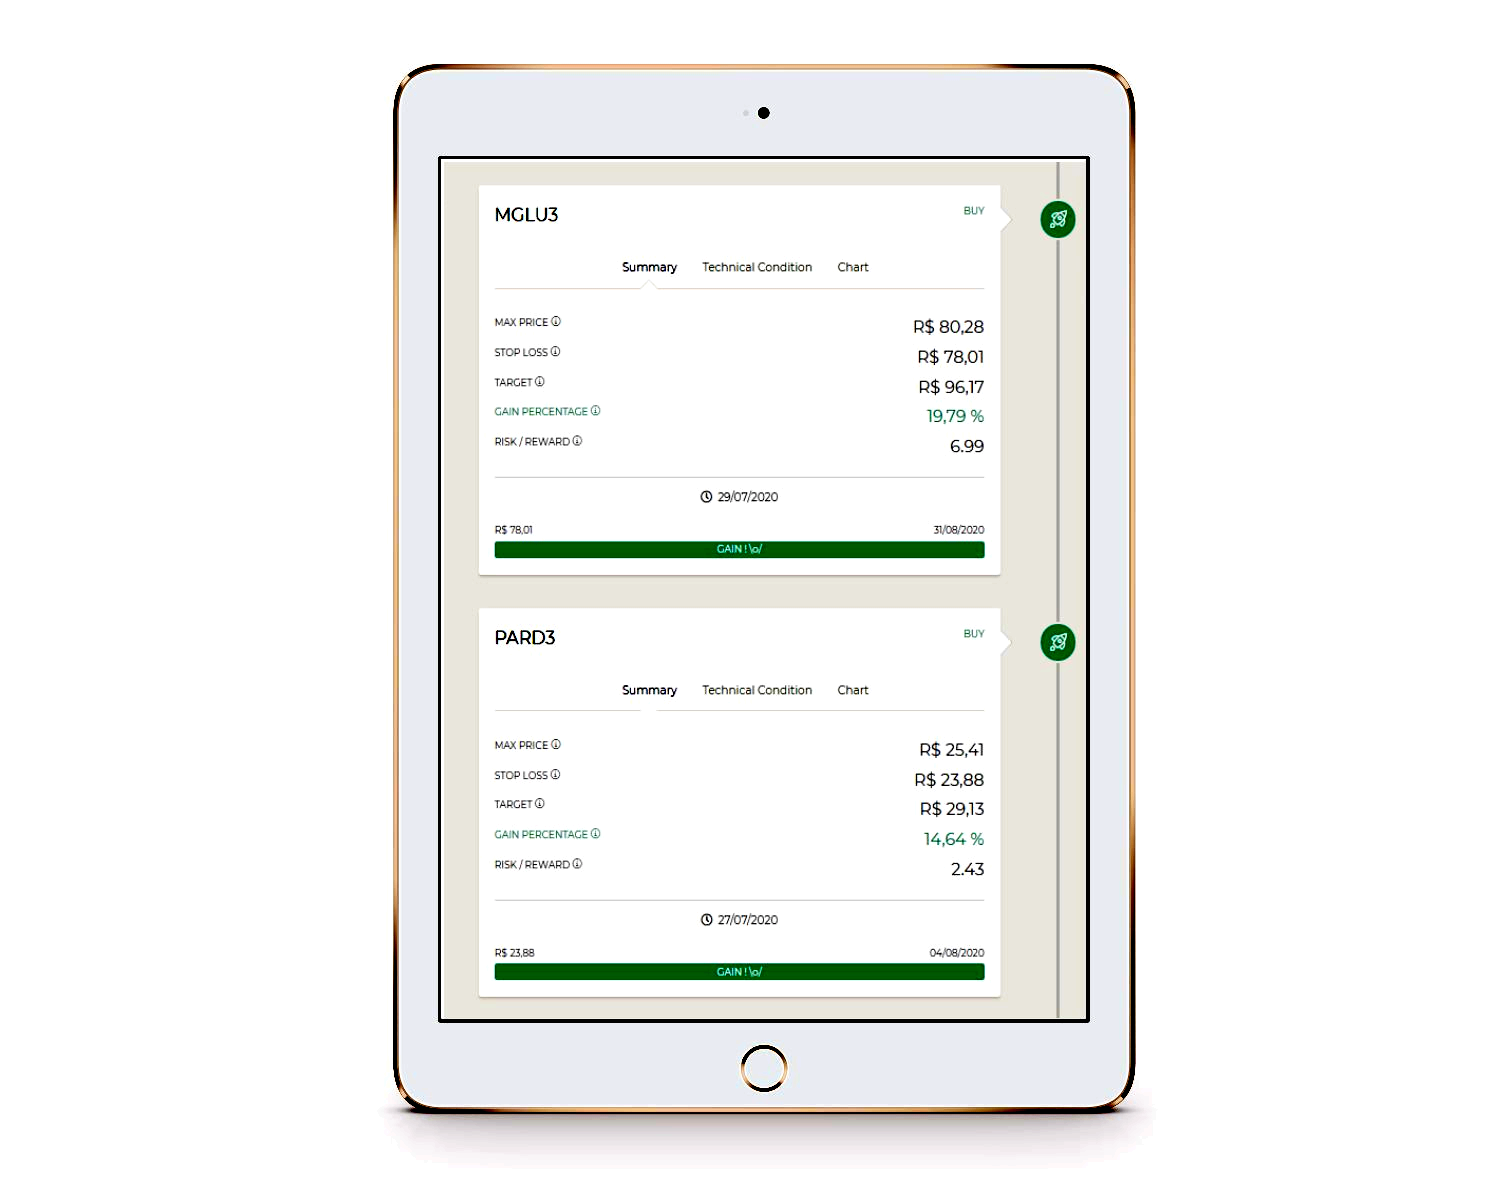
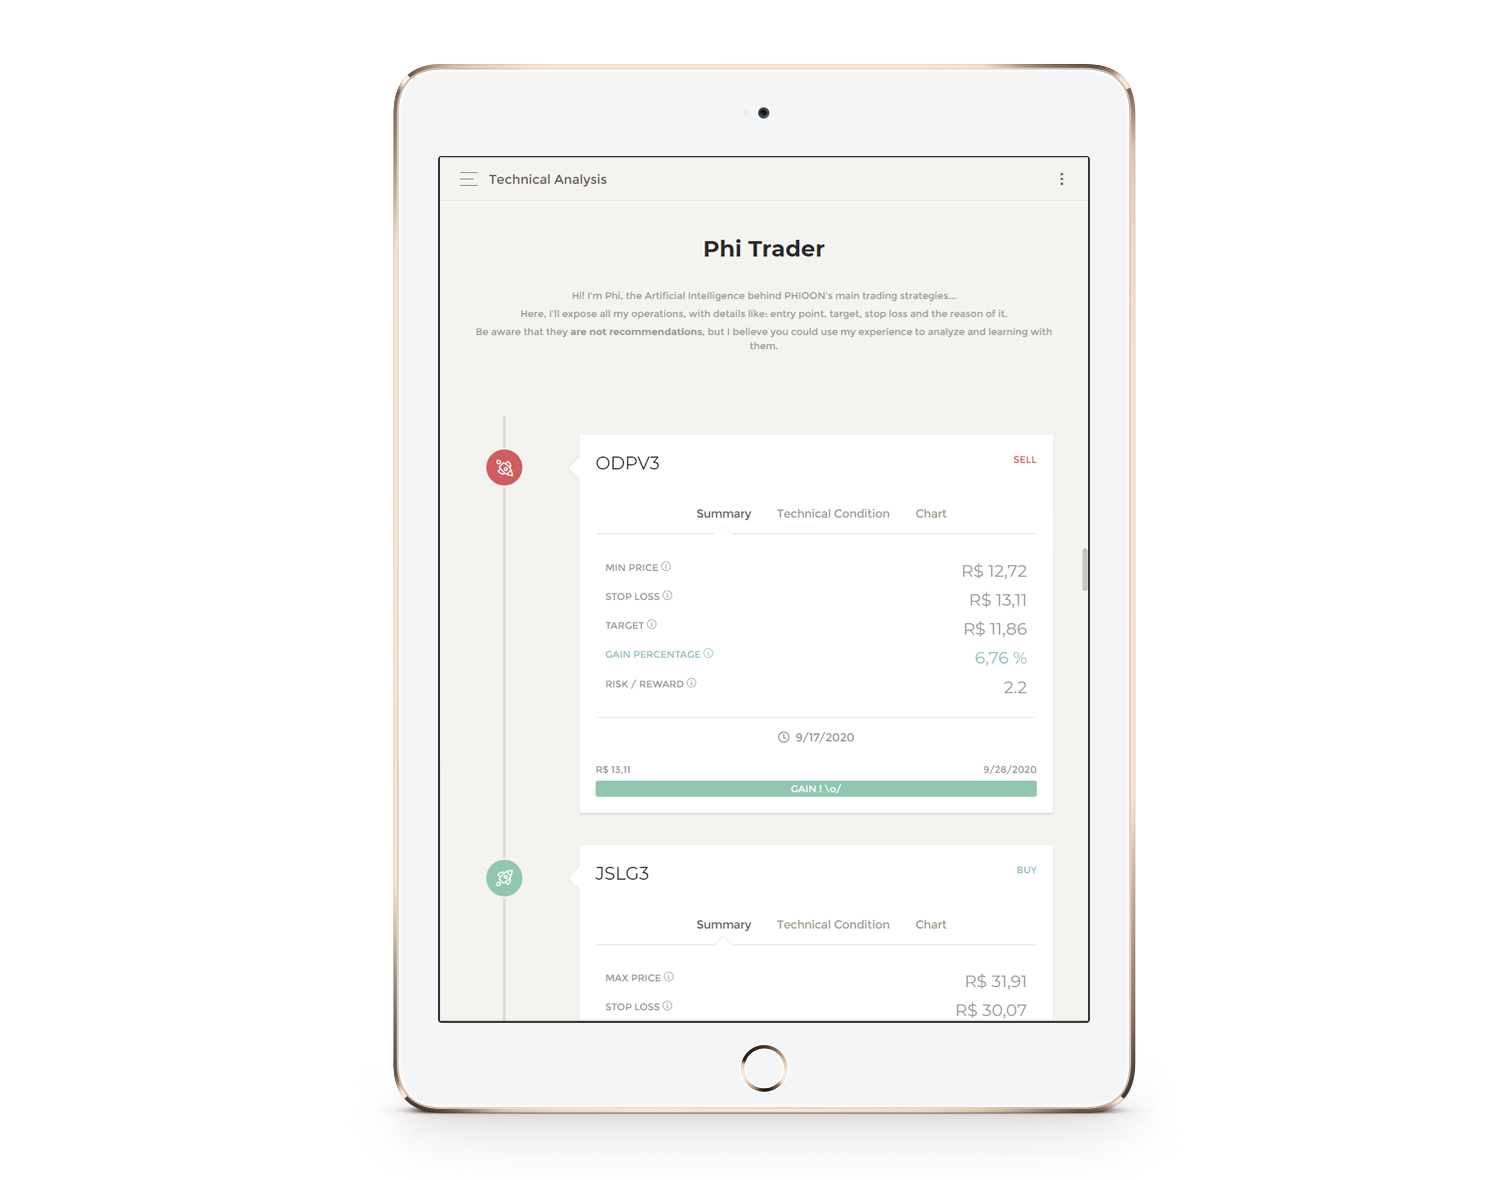
Checkpoint 6

Changed region(s): [[0.2453, 0.061, 0.7667, 0.9763], [0.276, 0.0305, 0.736, 0.061], [0.3987, 0.7322, 0.4293, 0.7627]]

diff --git a/src/views/PresentationPage/Sections/SectionPhiTrader.js b/src/views/PresentationPage/Sections/SectionPhiTrader.js
@@ -11,9 +11,9 @@ import { makeStyles } from "@material-ui/core/styles";
 import ScrollAnimation from "react-animate-on-scroll";
 import "animate.css/animate.min.css";
 
-import contentStyle from "assets/jss/material-kit-pro-react/views/presentationSections/contentStyle.js";
+import phiTraderStyle from "assets/jss/material-kit-pro-react/views/presentationSections/phiTraderStyle.js";
 
-const useStyles = makeStyles(contentStyle);
+const useStyles = makeStyles(phiTraderStyle);
 
 export default function SectionPhiTrader(props) {
   const compId = "sectionphitrader"
@@ -25,44 +25,44 @@ export default function SectionPhiTrader(props) {
         <GridContainer justify="center">
           <GridItem md={4}>
             <div className={classes.sectionDescription}>
-              <h2 className={classes.title}>{props.getString(props.prefs.langId, compId, "label_title")}</h2>              
+              <h2 className={classes.title}>{props.getString(props.prefs.langId, compId, "label_title")}</h2>
               <h3 className={classes.description}>
                 {props.getString(props.prefs.langId, compId, "label_desc")}
               </h3>
               {goToPhiTraderPage && <Redirect to="/products/phitrader" />}
               <Button color={"success"} onClick={() => setGoToPhiTraderPage(true)} link>
-              <h5>
-                {props.getString(props.prefs.langId, compId, "btn_details")}
-                {" "}
-                <i className="material-icons">call_made</i>
-              </h5>
-            </Button>
+                <h5>
+                  {props.getString(props.prefs.langId, compId, "btn_details")}
+                  {" "}
+                  <i className="material-icons">call_made</i>
+                </h5>
+              </Button>
             </div>
           </GridItem>
           <GridItem md={7} className={classes.mlAuto}>
             <div className={classes.imageContainer}>
-              <div className={classes.animeAreaImg}>
+              <div className={classes.animeImg1}>
                 <ScrollAnimation animateIn="animate__fadeInUp">
                   <img
-                    src={props.getImage(props.prefs.langId, "phitrader_analysis")}
+                    src={props.getImage(props.prefs.langId, "phitrader_summary")}
                     alt="PhiTrader"
-                    className={classes.areaImg}
+                    className={classes.img1}
                   />
                 </ScrollAnimation>
               </div>
-              <div className={classes.animeInfoImg}>
+              <div className={classes.animeImg2}>
                 <ScrollAnimation animateIn="animate__fadeInUp">
                   <img
-                    src={props.getImage(props.prefs.langId, "phitrader_conditions")}
+                    src={props.getImage(props.prefs.langId, "phitrader_technicalConditions")}
                     alt="PhiTrader"
-                    className={classes.infoImg}
+                    className={classes.img2}
                   />
                 </ScrollAnimation>
               </div>
               <img
                 src={props.getImage(props.prefs.langId, "phitrader_ipad")}
                 alt="PhiTrader"
-                className={classes.ipadImg}                
+                className={classes.ipadImg}
               />
             </div>
           </GridItem>

diff --git a/src/core/images.js b/src/core/images.js
@@ -9,9 +9,9 @@ import strategies_card2_enus from "assets/img/phioon_app/strategies/card-2_enus.
 import strategies_iphone_enus from "assets/img/phioon_app/strategies/iphone_enus.png";
 import strategies_macbook_enus from "assets/img/phioon_app/strategies/macbook_enus.png";
 import phitrader_ipad_enus from "assets/img/phioon_app/phitrader/ipad_enus.png";
-import phitrader_analysis_enus from "assets/img/phioon_app/phitrader/analysis_enus.png";
-import phitrader_conditions_enus from "assets/img/phioon_app/phitrader/conditions_enus.png";
-import phitrader_summary_enus from "assets/img/phioon_app/phitrader/iphone_enus.png";
+import phitrader_analysis_enus from "assets/img/phioon_app/phitrader/summary_enus.png";
+import phitrader_technicalConditions_enus from "assets/img/phioon_app/phitrader/conditions_enus.png";
+import phitrader_summary_iphone_enus from "assets/img/phioon_app/phitrader/summary_iphone_enus.png";
 import phitrader_technical_enus from "assets/img/phioon_app/phitrader/ipad3_enus.png";
 
 // ptBR
@@ -23,9 +23,9 @@ import strategies_card2_ptbr from "assets/img/phioon_app/strategies/card-2_ptbr.
 import strategies_iphone_ptbr from "assets/img/phioon_app/strategies/iphone_ptbr.png";
 import strategies_macbook_ptbr from "assets/img/phioon_app/strategies/macbook_ptbr.png";
 import phitrader_ipad_ptbr from "assets/img/phioon_app/phitrader/ipad_ptbr.png";
-import phitrader_analysis_ptbr from "assets/img/phioon_app/phitrader/analysis_ptbr.png";
-import phitrader_conditions_ptbr from "assets/img/phioon_app/phitrader/conditions_ptbr.png";
-import phitrader_summary_ptbr from "assets/img/phioon_app/phitrader/iphone_ptbr.png";
+import phitrader_summary_ptbr from "assets/img/phioon_app/phitrader/summary_ptbr.png";
+import phitrader_technicalConditions_ptbr from "assets/img/phioon_app/phitrader/technicalCondition_ptbr.png";
+import phitrader_summary_iphone_ptbr from "assets/img/phioon_app/phitrader/summary_iphone_ptbr.png";
 import phitrader_technical_ptbr from "assets/img/phioon_app/phitrader/ipad3_ptbr.png";
 
 
@@ -53,9 +53,9 @@ const images = {
     strategies_macbook: strategies_macbook_enus,
 
     phitrader_ipad: phitrader_ipad_enus,
-    phitrader_analysis: phitrader_analysis_enus,
-    phitrader_conditions: phitrader_conditions_enus,
-    phitrader_summary: phitrader_summary_enus,
+    phitrader_summary: phitrader_analysis_enus,
+    phitrader_technicalConditions: phitrader_technicalConditions_enus,
+    phitrader_summary_iphone: phitrader_summary_iphone_enus,
     phitrader_technical: phitrader_technical_enus,
 
   },
@@ -71,9 +71,9 @@ const images = {
     strategies_macbook: strategies_macbook_ptbr,
 
     phitrader_ipad: phitrader_ipad_ptbr,
-    phitrader_analysis: phitrader_analysis_ptbr,
-    phitrader_conditions: phitrader_conditions_ptbr,
     phitrader_summary: phitrader_summary_ptbr,
+    phitrader_technicalConditions: phitrader_technicalConditions_ptbr,
+    phitrader_summary_iphone: phitrader_summary_iphone_ptbr,
     phitrader_technical: phitrader_technical_ptbr,
   }
 }

diff --git a/src/core/lang.js b/src/core/lang.js
@@ -75,14 +75,15 @@ const strings = {
     keywords: {
       label_strategies: "Strategies",
       label_time: "time",
-      label_opportunities: "opportunities",
     },
     phitraderpage: {
-      label_title: "Wallets",
+      label_title: "Phi Trader",
 
-      desc_title: "Automated Technical Analysis",
-      desc_p1: "Our goal is to optimize the way you look for opportunities that market offers... So, we developed",
-      desc_p2: "to save your most precious asset:",
+      desc_title: "Technical Analysis with AI",
+      desc_p1: "Nothing like technology working to our advantage...",
+      desc_p2: "Phi",
+      desc_p3: "is one more tool that we developed to assist your",
+      desc_p4: "dicision making",
 
       sec1_infoarea1_title: "Create",
       sec1_infoarea1_desc: "There is a correlation between the price and its indicators over a given period of time. We call this correlation Strategy.",
@@ -178,8 +179,8 @@ const strings = {
     },
     sectionphitrader: {
       label_title: "Phi Trader",
-      label_desc: "Our Artificial Intelligence in constant learning.",
-      btn_details: "See more about our product"
+      label_desc: "The Artificial Intelligence that operates with you.",
+      btn_details: "Learn more"
     },
     sectionstrategies: {
       label_title: "Strategies",
@@ -305,9 +306,11 @@ const strings = {
     phitraderpage: {
       label_title: "Phi Trader",
 
-      desc_title: "Nossa Inteligência Artificial em constante aprendizado",
-      desc_p1: "Diariamente, procura por ",
-      desc_p2: "nos mais de 400 ativos da bolsa de valores brasileira.",
+      desc_title: "Análise Técnica com IA",
+      desc_p1: "Nada como a tecnologia trabalhando ao nosso favor... O",
+      desc_p2: "Phi",
+      desc_p3: "é mais uma ferramenta que desenvolvemos para auxiliar a sua",
+      desc_p4: "tomada de decisão",
 
       sec1_infoarea1_title: "Phi",
       sec1_infoarea1_desc: "Sou o Phi, a Inteligência Artificial por trás das estratégias de mercado do PHIOON.",
@@ -405,8 +408,8 @@ const strings = {
     },
     sectionphitrader: {
       label_title: "Phi Trader",
-      label_desc: "Nossa Inteligência Artificial em constante aprendizado.",
-      btn_details: "Conheça nosso produto"
+      label_desc: "A Inteligência Artificial que opera com você.",
+      btn_details: "Saiba como funciona"
     },
     sectionstrategies: {
       label_title: "Estratégias",

diff --git a/src/assets/jss/material-kit-pro-react/views/presentationSections/phiTraderStyle.js b/src/assets/jss/material-kit-pro-react/views/presentationSections/phiTraderStyle.js
@@ -9,7 +9,7 @@ import {
   hexToRgb
 } from "assets/jss/material-kit-pro-react.js";
 
-const contentStyle = theme => ({
+const style = theme => ({
   container,
   section: {
     ...section,
@@ -39,12 +39,12 @@ const contentStyle = theme => ({
     width: "100%"
   },
   mlAuto,
-  areaImg: {
-    height: "300px",
-    width: "250px",
+  img1: {
+    width: "323px",
+    height: "294px",
     zIndex: 2,
-    top: "10%",
-    left: "60%",
+    top: "-4%",
+    left: "57%",
     boxShadow:
       "0 8px 10px 1px rgba(" +
       hexToRgb(blackColor) +
@@ -54,13 +54,13 @@ const contentStyle = theme => ({
       hexToRgb(blackColor) +
       ", 0.2)",
     [theme.breakpoints.down("sm")]: {
-      maxWidth: "130px",
-      maxHeight: "170px"
+      maxWidth: "162px",
+      maxHeight: "147px"
     }
   },
-  infoImg: {
-    height: "200px",
-    width: "300px",
+  img2: {
+    width: "323px",
+    height: "352px",
     top: "50%",
     left: "0%",
     boxShadow:
@@ -72,20 +72,20 @@ const contentStyle = theme => ({
       hexToRgb(blackColor) +
       ", 0.2)",
     [theme.breakpoints.down("sm")]: {
-      maxWidth: "170px",
-      maxHeight: "120px"
+      maxWidth: "162px",
+      maxHeight: "176px"
     }
   },
-  animeInfoImg: {
-    top: "50%",
-    left: "0%",
+  animeImg1: {
+    top: "-4%",
+    left: "57%",
     position: "absolute"
   },
-  animeAreaImg: {
-    top: "10%",
-    left: "60%",
+  animeImg2: {
+    top: "50%",
+    left: "-3%",
     position: "absolute"
-  }
+  },
 });
 
-export default contentStyle;
+export default style;

diff --git a/src/views/PhiTraderPage/PhiTraderPage.js b/src/views/PhiTraderPage/PhiTraderPage.js
@@ -65,9 +65,11 @@ export default function PhiTraderPage(props) {
                 <h5 className={classes.description}>
                   {props.getString(props.prefs.langId, compId, "desc_p1")}
                   {" "}
-                  <strong>{props.getString(props.prefs.langId, "keywords", "label_opportunities")}</strong>
+                  <b>{props.getString(props.prefs.langId, compId, "desc_p2")}</b>
                   {" "}
-                  {props.getString(props.prefs.langId, compId, "desc_p2")}
+                  {props.getString(props.prefs.langId, compId, "desc_p3")}
+                  {" "}
+                  <b>{props.getString(props.prefs.langId, compId, "desc_p4")}</b>.
                 </h5>
               </GridItem>
             </GridContainer>
@@ -138,7 +140,7 @@ export default function PhiTraderPage(props) {
               <div className={classes.phoneContainer}>
                 <img
                   src={props.getImage(props.prefs.langId, "phitrader_summary")}
-                  alt="PhiTrader"
+                  alt="Phi Trader"
                 />
               </div>
             </GridItem>

diff --git a/src/views/StrategiesPage/StrategiesPage.js b/src/views/StrategiesPage/StrategiesPage.js
@@ -149,7 +149,7 @@ export default function StrategiesPage(props) {
               <div className={classes.iframeContainer}>
                 <iframe
                   height="250"
-                  src="https://www.youtube.com/embed/IN6QnLpVEPI?ref=creativetim"
+                  src="https://www.youtube.com/embed/videoseries?list=PL07A92TyrGLl0lLBzMChQIPOZN8u-f-hv"
                   frameBorder="0"
                   allow="encrypted-media"
                   allowFullScreen

diff --git a/src/views/PricingPage/PricingPage.js b/src/views/PricingPage/PricingPage.js
@@ -41,7 +41,6 @@ export default function PricingPage(props) {
       />
 
       <Parallax small
-        // image={props.project.img.bg.app_clean.src}
         filter="success" >
         <div className={classes.container}>
           <GridContainer>
